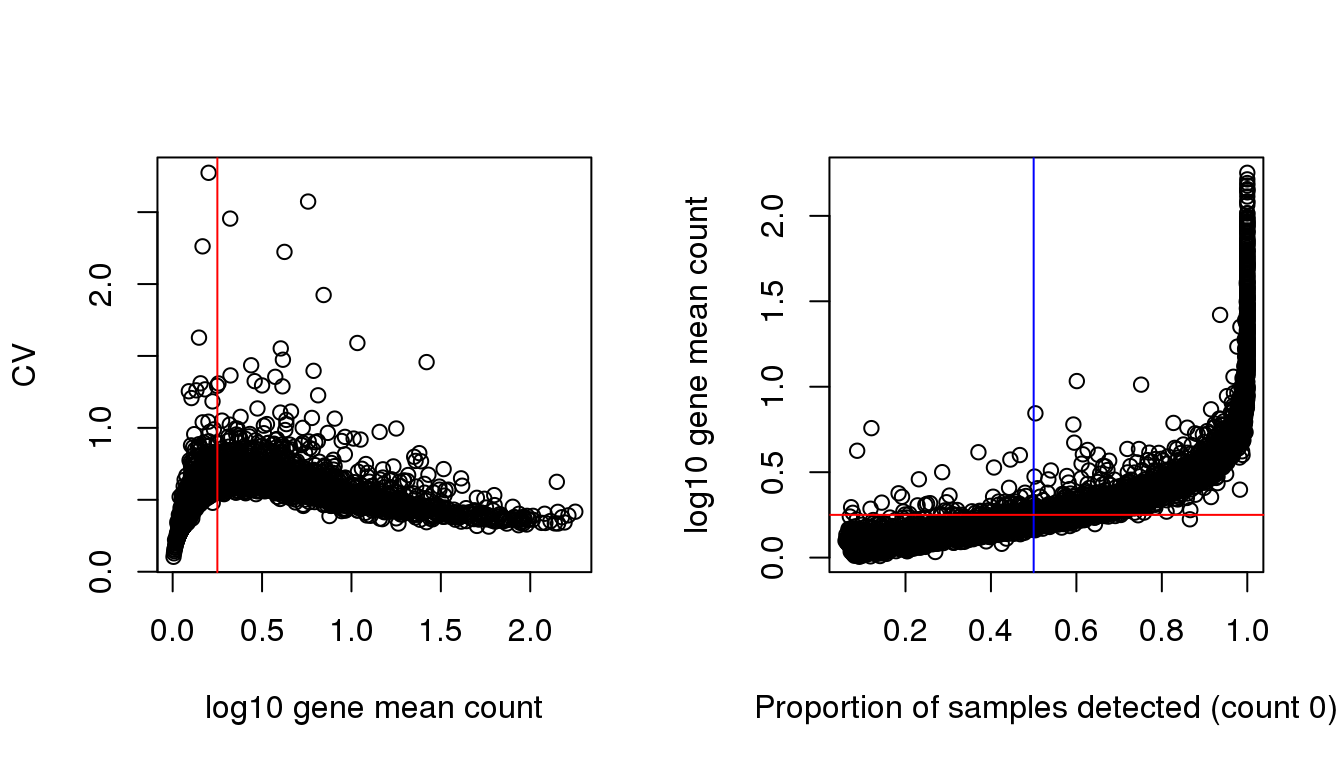
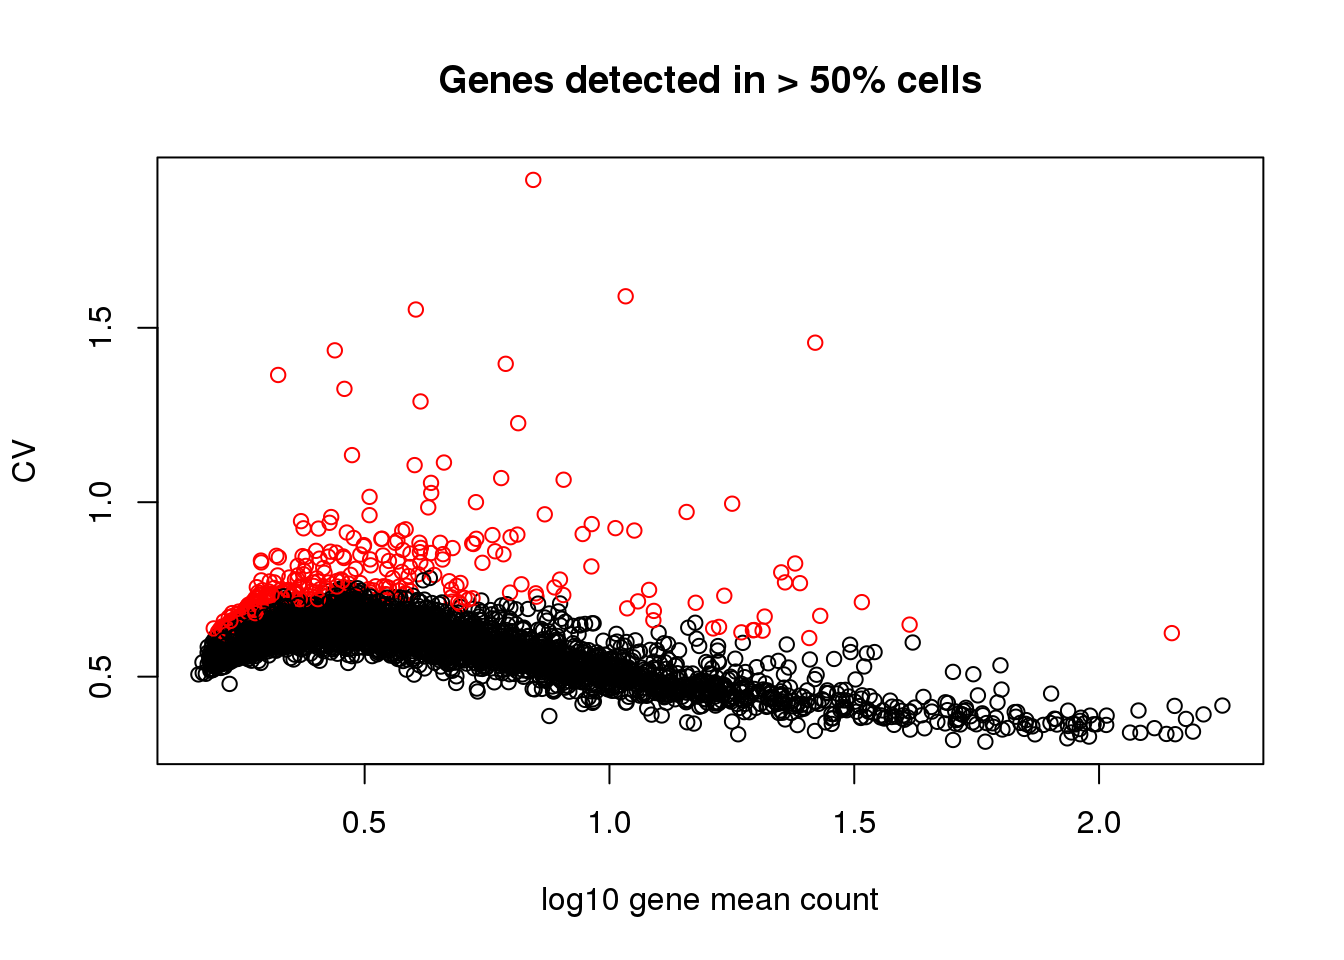
Build site.

diff --git a/docs/seqdata-select-cellcyclegenes.html b/docs/seqdata-select-cellcyclegenes.html
@@ -319,10 +319,10 @@ div.section {
 shared across the workflowr files. -->
 <!-- Update knitr chunk options -->
 <!-- Insert the date the file was last updated -->
-<p><strong>Last updated:</strong> 2018-02-22</p>
+<p><strong>Last updated:</strong> 2018-02-28</p>
 <!-- Insert the code version (Git commit SHA1) if Git repository exists and R
  package git2r is installed -->
-<p><strong>Code version:</strong> eb1a233</p>
+<p><strong>Code version:</strong> 4131ce7</p>
 <hr />
 <div id="overview" class="section level2">
 <h2>Overview</h2>
@@ -332,12 +332,11 @@ shared across the workflowr files. -->
 <li><p>Select genes whose expression variability is above certain threshold.</p></li>
 </ol>
 <p>This document generated several RDS for later use:</p>
-<p>*<code>genes.cyclebase.rds</code>: human cell cycle genes based on cycleBase</p>
-<p>*<code>genes.go.rds</code>: human cell cycle genes associated with <a href="GO:0007049" class="uri">GO:0007049</a></p>
-<p>*<code>genes.variable.rds</code>: genes in the current study with detection rate &gt; 50 and dispersion z-score &gt; 1.5 across expression mean bins (this may need to be changed later…).</p>
-<p>*<code>genes.cycle.rds</code>: combined cell cycle annotated genes from CycleBase and GO.</p>
-<p>*<code>genes.cycle.detect.rds</code>: combined cell cycle annotated genes from CycleBase and GO with detection rate &gt; 50% in the current study.</p>
-<p>*<code>genes.variable.cycle.rds</code>: genes identified as variable in the current study that are also in the current cell cycle annotated set.</p>
+<p>*<code>genes.go.rds</code>: 677 human cell cycle genes associated with <a href="GO:0007049" class="uri">GO:0007049</a></p>
+<p>*<code>genes.detect.rds</code>: 6313 genes in the current study with detection rate &gt; 50%</p>
+<p>*<code>genes.go.detect.rds</code>: 450 genes in the current study with detection rate &gt; 50% and associated with <a href="GO:0007049" class="uri">GO:0007049</a></p>
+<p>*<code>genes.variable.rds</code>: 359 genes in the current study with detection rate &gt; 50% and dispersion z-score &gt; 1.5 across expression mean bins</p>
+<p>*<code>genes.go.variable.rds</code>: 24 genes in the current study with detection rate &gt; 50% and dispersion z-score &gt; 1.5 across expression mean bins and associated with <a href="GO:0007049" class="uri">GO:0007049</a></p>
 <hr />
 </div>
 <div id="data-and-packages" class="section level2">
@@ -358,13 +357,8 @@ counts &lt;- exprs(df)[grep(&quot;ENSG&quot;, rownames(df)), ]</code></pre>
 <pre class="r"><code>ensembl = useMart(&quot;ensembl&quot;,dataset=&quot;hsapiens_gene_ensembl&quot;) 
 #gets gene symbol, transcript_id and go_id for all genes annotated with GO:0007507
 genes.go &lt;- getBM(attributes=c(&#39;hgnc_symbol&#39;, &#39;ensembl_gene_id&#39;, &#39;go_id&#39;),
-                   filters = &#39;go&#39;, values = &#39;GO:0007049&#39;, mart = ensembl)</code></pre>
-</div>
-<div id="cyclebase" class="section level2">
-<h2>Cyclebase</h2>
-<p>Download human periodic genes.</p>
-<pre class="r"><code>genes.cyclebase &lt;- read.table(&quot;../data/cellcycle-genes-previous-studies/human_periodic.tsv&quot;,
-           header = TRUE)</code></pre>
+                   filters = &#39;go&#39;, values = &#39;GO:0007049&#39;, mart = ensembl)
+genes.go &lt;- unique(genes.go$ensembl_gene_id)</code></pre>
 </div>
 <div id="variable-genes" class="section level2">
 <h2>Variable genes</h2>
@@ -393,13 +387,13 @@ plot(x=gene.drops, y = log10(gene.means),
      ylab = &quot;log10 gene mean count&quot;)
 abline(v=.5, col = &quot;blue&quot;)
 abline(h=.25, col = &quot;red&quot;)</code></pre>
-<p><img src="figure/seqdata-select-cellcyclegenes.Rmd/unnamed-chunk-6-1.png" width="672" style="display: block; margin: auto;" /></p>
+<p><img src="figure/seqdata-select-cellcyclegenes.Rmd/unnamed-chunk-5-1.png" width="672" style="display: block; margin: auto;" /></p>
 <p>Two steps here for choosing variable genes:</p>
 <ol style="list-style-type: decimal">
 <li><p>I arbitrary decided on a cutoff for gene mean based on the relationship between CV and log10 gene count. The idea was to filter the genes among which dispersion increases with gene mean (approximately when detection rate 50% or lower).</p></li>
 <li><p>Scan across gene expression bins, identify the ones with high variability in each bin.</p></li>
 </ol>
-<pre class="r"><code>gene.detect &lt;- rownames(counts)[which(gene.drops &gt; .5)]
+<pre class="r"><code>genes.detect &lt;- rownames(counts)[which(gene.drops &gt; .5)]
 
 gene.means.detect &lt;- gene.means[which(gene.drops &gt; .5)]
 gene.cvs.detect &lt;- gene.cvs[which(gene.drops &gt; .5)]
@@ -420,30 +414,26 @@ plot(x=log10(gene.means.detect),
      xlab = &quot;log10 gene mean count&quot;,
      ylab = &quot;CV&quot;, main = &quot;Genes detected in &gt; 50% cells&quot;,
      col = 1+as.numeric(names(gene.means.detect) %in% genes.variable))</code></pre>
-<p><img src="figure/seqdata-select-cellcyclegenes.Rmd/unnamed-chunk-7-1.png" width="672" style="display: block; margin: auto;" /></p>
+<p><img src="figure/seqdata-select-cellcyclegenes.Rmd/unnamed-chunk-6-1.png" width="672" style="display: block; margin: auto;" /></p>
 <hr />
 </div>
 <div id="output" class="section level2">
 <h2>Output</h2>
-<pre class="r"><code>saveRDS(as.character(genes.cyclebase$gene), 
-        file = &quot;../output/seqdata-select-cellcyclegenes.Rmd/genes.cyclebase.rds&quot;)
-saveRDS(as.character(genes.go$ensembl_gene_id),
+<pre class="r"><code>saveRDS(genes.go,
         file = &quot;../output/seqdata-select-cellcyclegenes.Rmd/genes.go.rds&quot;)
 saveRDS(genes.variable,
         file = &quot;../output/seqdata-select-cellcyclegenes.Rmd/genes.variable.rds&quot;)
 
-genes.cycle &lt;- unique(c(as.character(genes.cyclebase$gene),
-                        as.character(genes.go$ensembl_gene_id)))
-saveRDS(genes.cycle,
-        file = &quot;../output/seqdata-select-cellcyclegenes.Rmd/genes.cycle.rds&quot;)
+saveRDS(genes.detect,
+        file = &quot;../output/seqdata-select-cellcyclegenes.Rmd/genes.detect.rds&quot;)
 
-genes.cycle.detect &lt;- genes.cycle[which(genes.cycle %in% names(gene.means.detect))]
-saveRDS(genes.cycle.detect,
-        file = &quot;../output/seqdata-select-cellcyclegenes.Rmd/genes.cycle.detect.rds&quot;)
+genes.go.detect &lt;- genes.detect[which(genes.detect %in% genes.go)]
+saveRDS(genes.go.detect,
+        file = &quot;../output/seqdata-select-cellcyclegenes.Rmd/genes.go.detect.rds&quot;)
 
-genes.variable.cycle &lt;- genes.variable[which(genes.variable %in% genes.cycle)]
-saveRDS(genes.variable.cycle,
-        file = &quot;../output/seqdata-select-cellcyclegenes.Rmd/genes.cycle.variable.rds&quot;)</code></pre>
+genes.go.variable &lt;- genes.variable[which(genes.variable %in% genes.go)]
+saveRDS(genes.go.variable,
+        file = &quot;../output/seqdata-select-cellcyclegenes.Rmd/genes.go.variable.rds&quot;)</code></pre>
 <hr />
 </div>
 <div id="session-information" class="section level2">
